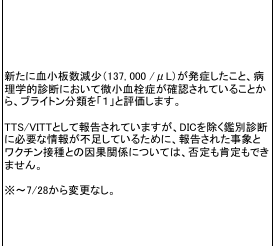
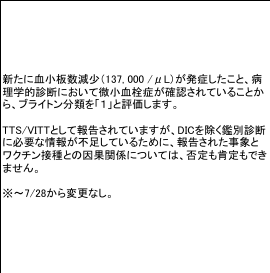
Verify case 1790 crops against PDF cells

Changed region(s): [[0.0, 0.0, 1.0, 1.0]]

diff --git a/web/vaxxcausal.rb b/web/vaxxcausal.rb
@@ -52,7 +52,6 @@ html = <<~'HTMLDOC'
 .source-note { margin:7px 0 0;color:#555;font-size:15px;line-height:1.55; }
 .source-note a { overflow-wrap:anywhere; }
 .evidence-link { display:block;cursor:zoom-in; }
-.evidence-number { display:block;margin:14px 0 5px;padding:5px 10px;background:#222;color:#fff;font-size:18px;font-weight:bold;line-height:1.4; }
 .source-link { font-weight:bold; }
 .page-viewer { position:fixed;inset:0;z-index:10000;display:none;background:rgba(0,0,0,.86);padding:24px;overflow:auto; }
 .page-viewer.open { display:block; }
@@ -115,8 +114,8 @@ __MENU__
     <p class="case-meta">73歳女性・2回目接種後に死亡（症例 No.1790）</p>
     <div class="record-grid">
       <section class="record-cell"><h3>基本情報・症状・転帰</h3>73歳女性／2回目<br>2021-08-06接種<br>2021-09-07死亡<br><b>症状：</b>心室細動、血栓症、血小板減少症、腎不全、多臓器不全等<br><b>転帰：</b>死亡</section>
-      <section class="record-cell doctor-cell"><h3>報告医所見・剖検</h3><b>関連あり／他要因なし</b><br>「剖検の結果、微小梗塞が認められた。血栓症による心室細動と考える」<a class="evidence-link" href="src/vaxcausal/pages/001161432-p285.png" data-full="src/vaxcausal/pages/001161432-p285.png" data-box="2.5,45,95,15.5" data-page-label="元PDF 285ページと切抜き範囲"><img class="source-image" src="src/vaxcausal/no1790-row.png" alt="剖検で微小梗塞を認め、報告医が関連ありとした症例No.1790"></a></section>
-      <section class="record-cell expert-cell"><h3>専門家判定・理由</h3><span class="verdict">γ</span><p>微小血栓症を確認しブライトン分類1。DICを除く鑑別情報が不足し「否定も肯定もできません」。</p><a class="evidence-link" href="src/vaxcausal/pages/001161432-p285.png" data-full="src/vaxcausal/pages/001161432-p285.png" data-box="2.5,45,95,15.5" data-page-label="元PDF 285ページと切抜き範囲"><img class="source-image" src="src/vaxcausal/no1790-eval.png" alt="症例No.1790の専門家評価理由"></a></section>
+      <section class="record-cell doctor-cell"><h3>報告医所見・剖検</h3><b>関連あり／他要因なし</b><br>「剖検の結果、微小梗塞が認められた。血栓症による心室細動と考える」<a class="evidence-link" href="src/vaxcausal/pages/001161432-p285.png" data-full="src/vaxcausal/pages/001161432-p285.png" data-box="2.5,45,95,15.5" data-page-label="元PDF 285ページと切抜き範囲"><img class="source-image" src="src/vaxcausal/no1790-row.png?v=3" alt="剖検で微小梗塞を認め、報告医が関連ありとした症例No.1790"></a></section>
+      <section class="record-cell expert-cell"><h3>専門家判定・理由</h3><span class="verdict">γ</span><p>微小血栓症を確認しブライトン分類1。DICを除く鑑別情報が不足し「否定も肯定もできません」。</p><a class="evidence-link" href="src/vaxcausal/pages/001161432-p285.png" data-full="src/vaxcausal/pages/001161432-p285.png" data-box="2.5,45,95,15.5" data-page-label="元PDF 285ページと切抜き範囲"><img class="source-image" src="src/vaxcausal/no1790-eval.png?v=3" alt="症例No.1790の専門家評価理由"></a></section>
     </div>
     <p class="source-note"><a class="source-link" href="https://www.mhlw.go.jp/content/10601000/001161432.pdf" target="_blank" rel="noopener">元PDF（285/456ページ）</a>の同じ行を、左右に分けて掲載。</p>
   </article>
@@ -211,13 +210,13 @@ __MENU__
 </div>
 <div class="page-viewer" id="page-viewer" role="dialog" aria-modal="true" aria-label="元PDFページと切抜き範囲">
   <button class="page-viewer-close" type="button" aria-label="閉じる">×</button>
-  <div class="page-viewer-inner"><img alt="元PDFの該当ページ"><span class="crop-box"></span></div>
+  <div class="page-viewer-inner"><img alt="元PDFの該当ページ"></div>
 </div>
 <script>
 (() => {
   const viewer = document.getElementById('page-viewer');
   const pageImage = viewer.querySelector('img');
-  const box = viewer.querySelector('.crop-box');
+  const viewerInner = viewer.querySelector('.page-viewer-inner');
   // 切抜き画像と赤枠は同じPDF座標から作る。 / Derive displayed crops and red boxes from the same PDF coordinates.
   const cropBoxes = {
     'no15-medical.png': '49.1,31.2,44.7,60.6',
@@ -229,27 +228,28 @@ __MENU__
     'no1332-medical.png': '21.9,53.0,18.5,9.9', 'no1332-eval.png': '78.7,53.0,12.3,9.9',
     'no1737-medical.png': '21.9,15.5,18.5,16.9', 'no1737-eval.png': '78.7,15.5,12.3,16.9',
     'no1762-medical.png': '21.9,26.3,18.5,13.8', 'no1762-eval.png': '78.7,26.3,12.3,13.8',
-    'no1790-row.png': '21.9,45.1,18.5,15.3', 'no1790-eval.png': '78.7,45.1,12.3,15.3',
+    'no1790-row.png': '21.84,44.87,10.81,16.97;78.82,44.87,11.86,16.97',
+    'no1790-eval.png': '21.84,44.87,10.81,16.97;78.82,44.87,11.86,16.97',
     'no1808-eval.png': '62.5,73.6,12.3,15.3',
     'no101-medical.png': '21.9,47.4,18.5,9.0',
     'alpha-14.png': '78.7,65.9,12.3,5.6',
     'alpha-42.png': '83.0,50.8,14.7,5.1'
   };
   const close = () => { viewer.classList.remove('open'); document.body.style.overflow = ''; };
-  document.querySelectorAll('.evidence-link').forEach((link, index) => {
-    const kind = link.closest('.doctor-cell') ? '報告医原文' :
-      (link.closest('.expert-cell') ? '専門家判定理由' : 'α判定の専門家意見');
-    const label = document.createElement('span');
-    label.className = 'evidence-number';
-    label.textContent = `画像${index + 1}（${kind}）`;
-    link.insertBefore(label, link.firstChild);
+  document.querySelectorAll('.evidence-link').forEach(link => {
     link.addEventListener('click', event => {
       event.preventDefault();
       const imageName = link.querySelector('img').src.split('/').pop().split('?')[0];
-      const values = cropBoxes[imageName].split(',');
       pageImage.src = link.dataset.full;
       pageImage.alt = link.dataset.pageLabel;
-      [box.style.left, box.style.top, box.style.width, box.style.height] = values.map(value => `${value}%`);
+      viewerInner.querySelectorAll('.crop-box').forEach(oldBox => oldBox.remove());
+      cropBoxes[imageName].split(';').forEach(boxValue => {
+        const values = boxValue.split(',');
+        const newBox = document.createElement('span');
+        newBox.className = 'crop-box';
+        [newBox.style.left, newBox.style.top, newBox.style.width, newBox.style.height] = values.map(value => `${value}%`);
+        viewerInner.appendChild(newBox);
+      });
       viewer.classList.add('open');
       document.body.style.overflow = 'hidden';
     });
